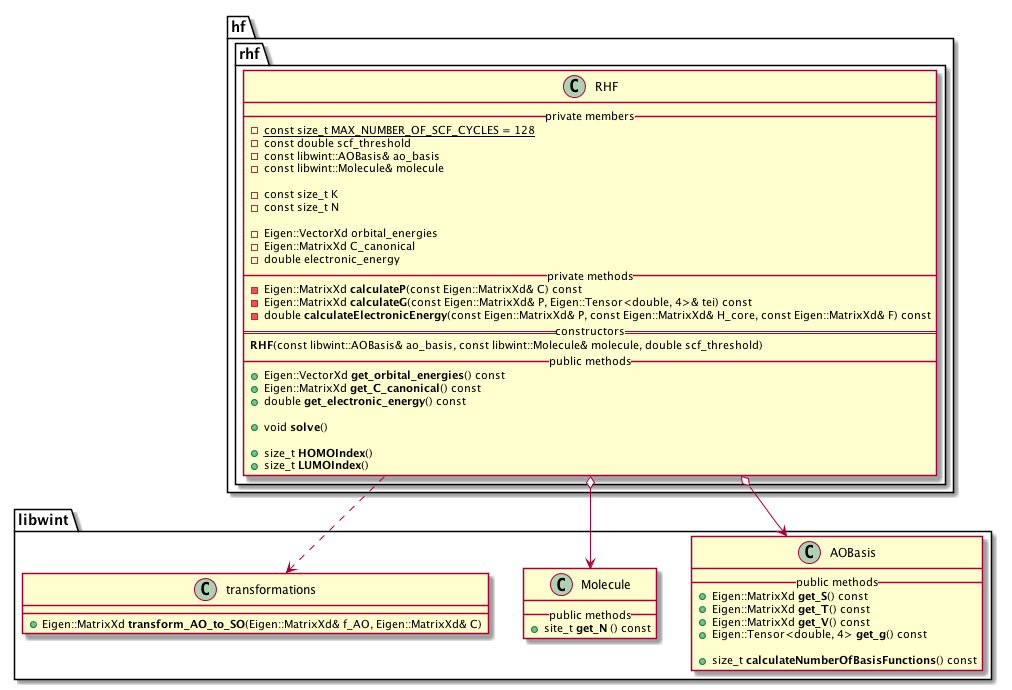
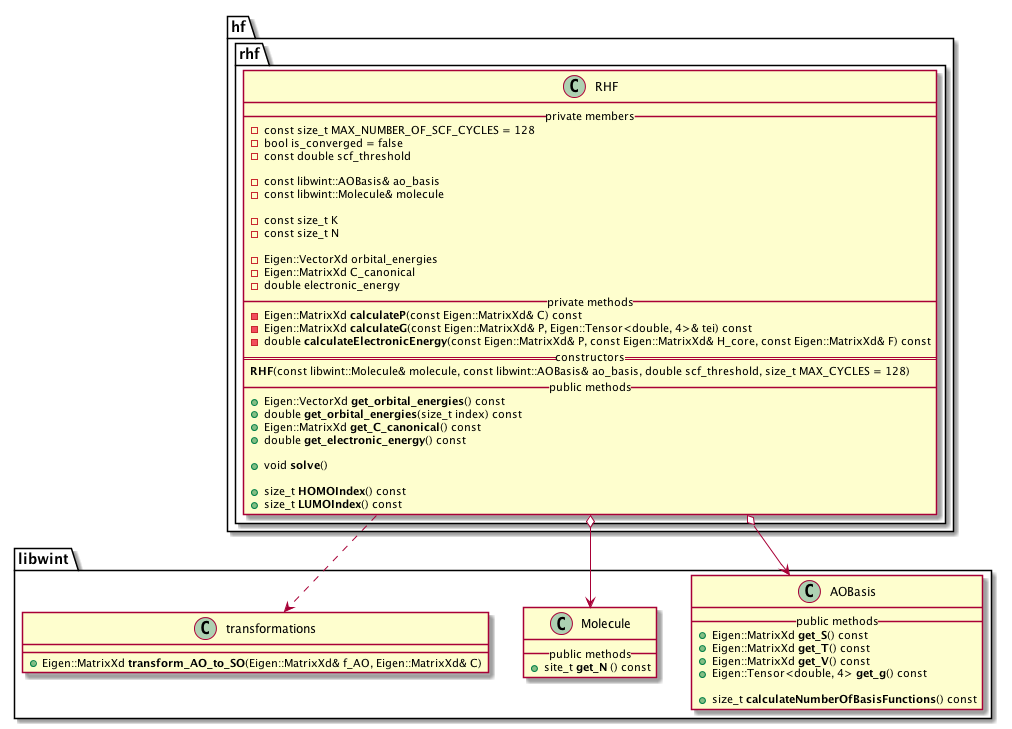
added max_cycle parameter to constructor

Changed region(s): [[0.0, 0.0, 1.0, 1.0], [0.0, 0.8217, 0.4901, 0.9435]]

diff --git a/src/RHF.cpp b/src/RHF.cpp
@@ -99,14 +99,15 @@ double RHF::calculateElectronicEnergy(const Eigen::MatrixXd& P, const Eigen::Mat
  */
 
 /**
- *  Constructor based on a given libwint::AOBasis @param: ao_basis, a number of electrons @param: N and an SCF-cycle @param: scf_threshold
+ *  Constructor based on a given libwint::AOBasis @param: ao_basis, a number of electrons @param: N and an SCF-cycle @param: scf_threshold, MAX_CYCLES
  */
-RHF::RHF(const libwint::Molecule& molecule, const libwint::AOBasis& ao_basis, double scf_threshold) :
+RHF::RHF(const libwint::Molecule& molecule, const libwint::AOBasis& ao_basis, double scf_threshold, size_t MAX_CYCLES) :
     scf_threshold (scf_threshold),
     ao_basis (ao_basis),
     molecule (molecule),
     K (this->ao_basis.calculateNumberOfBasisFunctions()),
-    N (this->molecule.get_N())
+    N (this->molecule.get_N()),
+    MAX_NUMBER_OF_SCF_CYCLES (MAX_CYCLES)
 {
 
     if ((this->N % 2) != 0) {

diff --git a/include/RHF.hpp b/include/RHF.hpp
@@ -30,7 +30,7 @@ namespace rhf {
 
 class RHF {
 private:
-    static const size_t MAX_NUMBER_OF_SCF_CYCLES = 128;
+    const size_t MAX_NUMBER_OF_SCF_CYCLES;
     bool is_converged = false;
 
     const double scf_threshold;  // convergence threshold for the SCF procedure
@@ -70,9 +70,9 @@ private:
 public:
     // Constructors
     /**
-     *  Constructor based on a given libwint::AOBasis @param: ao_basis, a molecule @param: molecule and an SCF-cycle @param: scf_threshold
+     *  Constructor based on a given libwint::AOBasis @param: ao_basis, a molecule @param: molecule and an SCF-cycle @param: scf_threshold, MAX_CYCLES
      */
-    RHF(const libwint::Molecule& molecule, const libwint::AOBasis& ao_basis, double scf_threshold);
+    RHF(const libwint::Molecule& molecule, const libwint::AOBasis& ao_basis, double scf_threshold, size_t MAX_CYCLES = 128);
 
 
     // Getters
